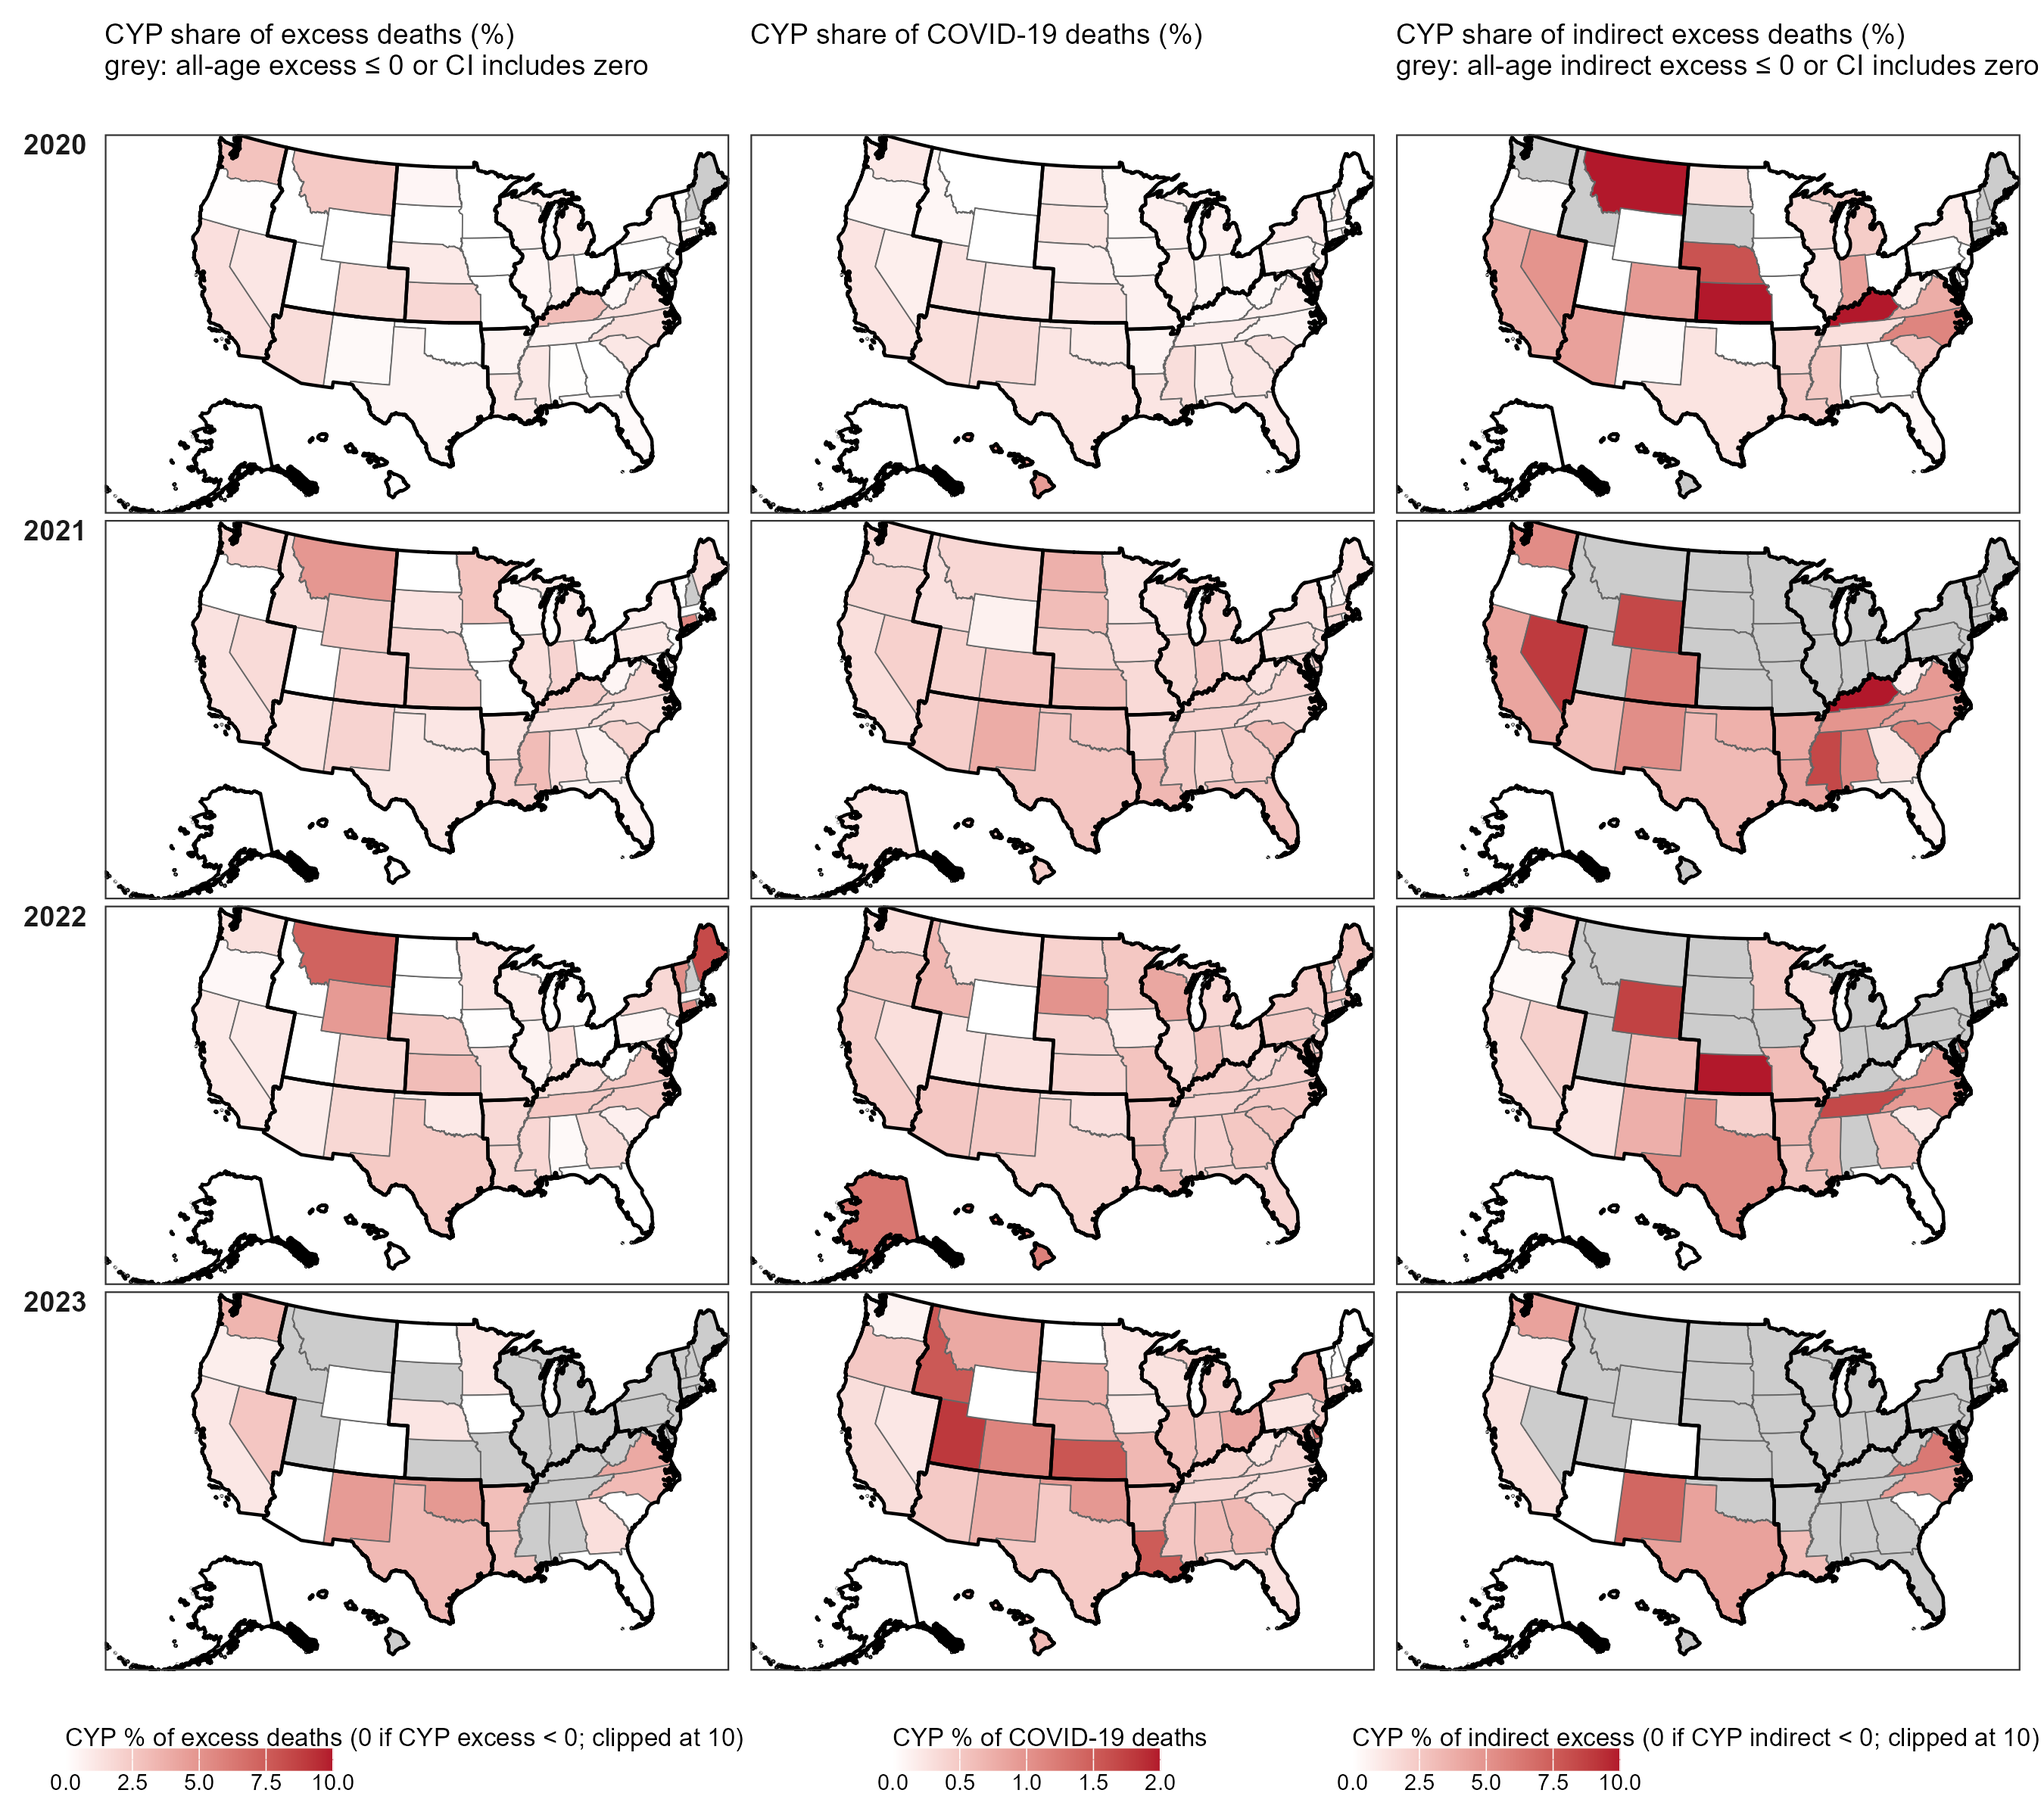
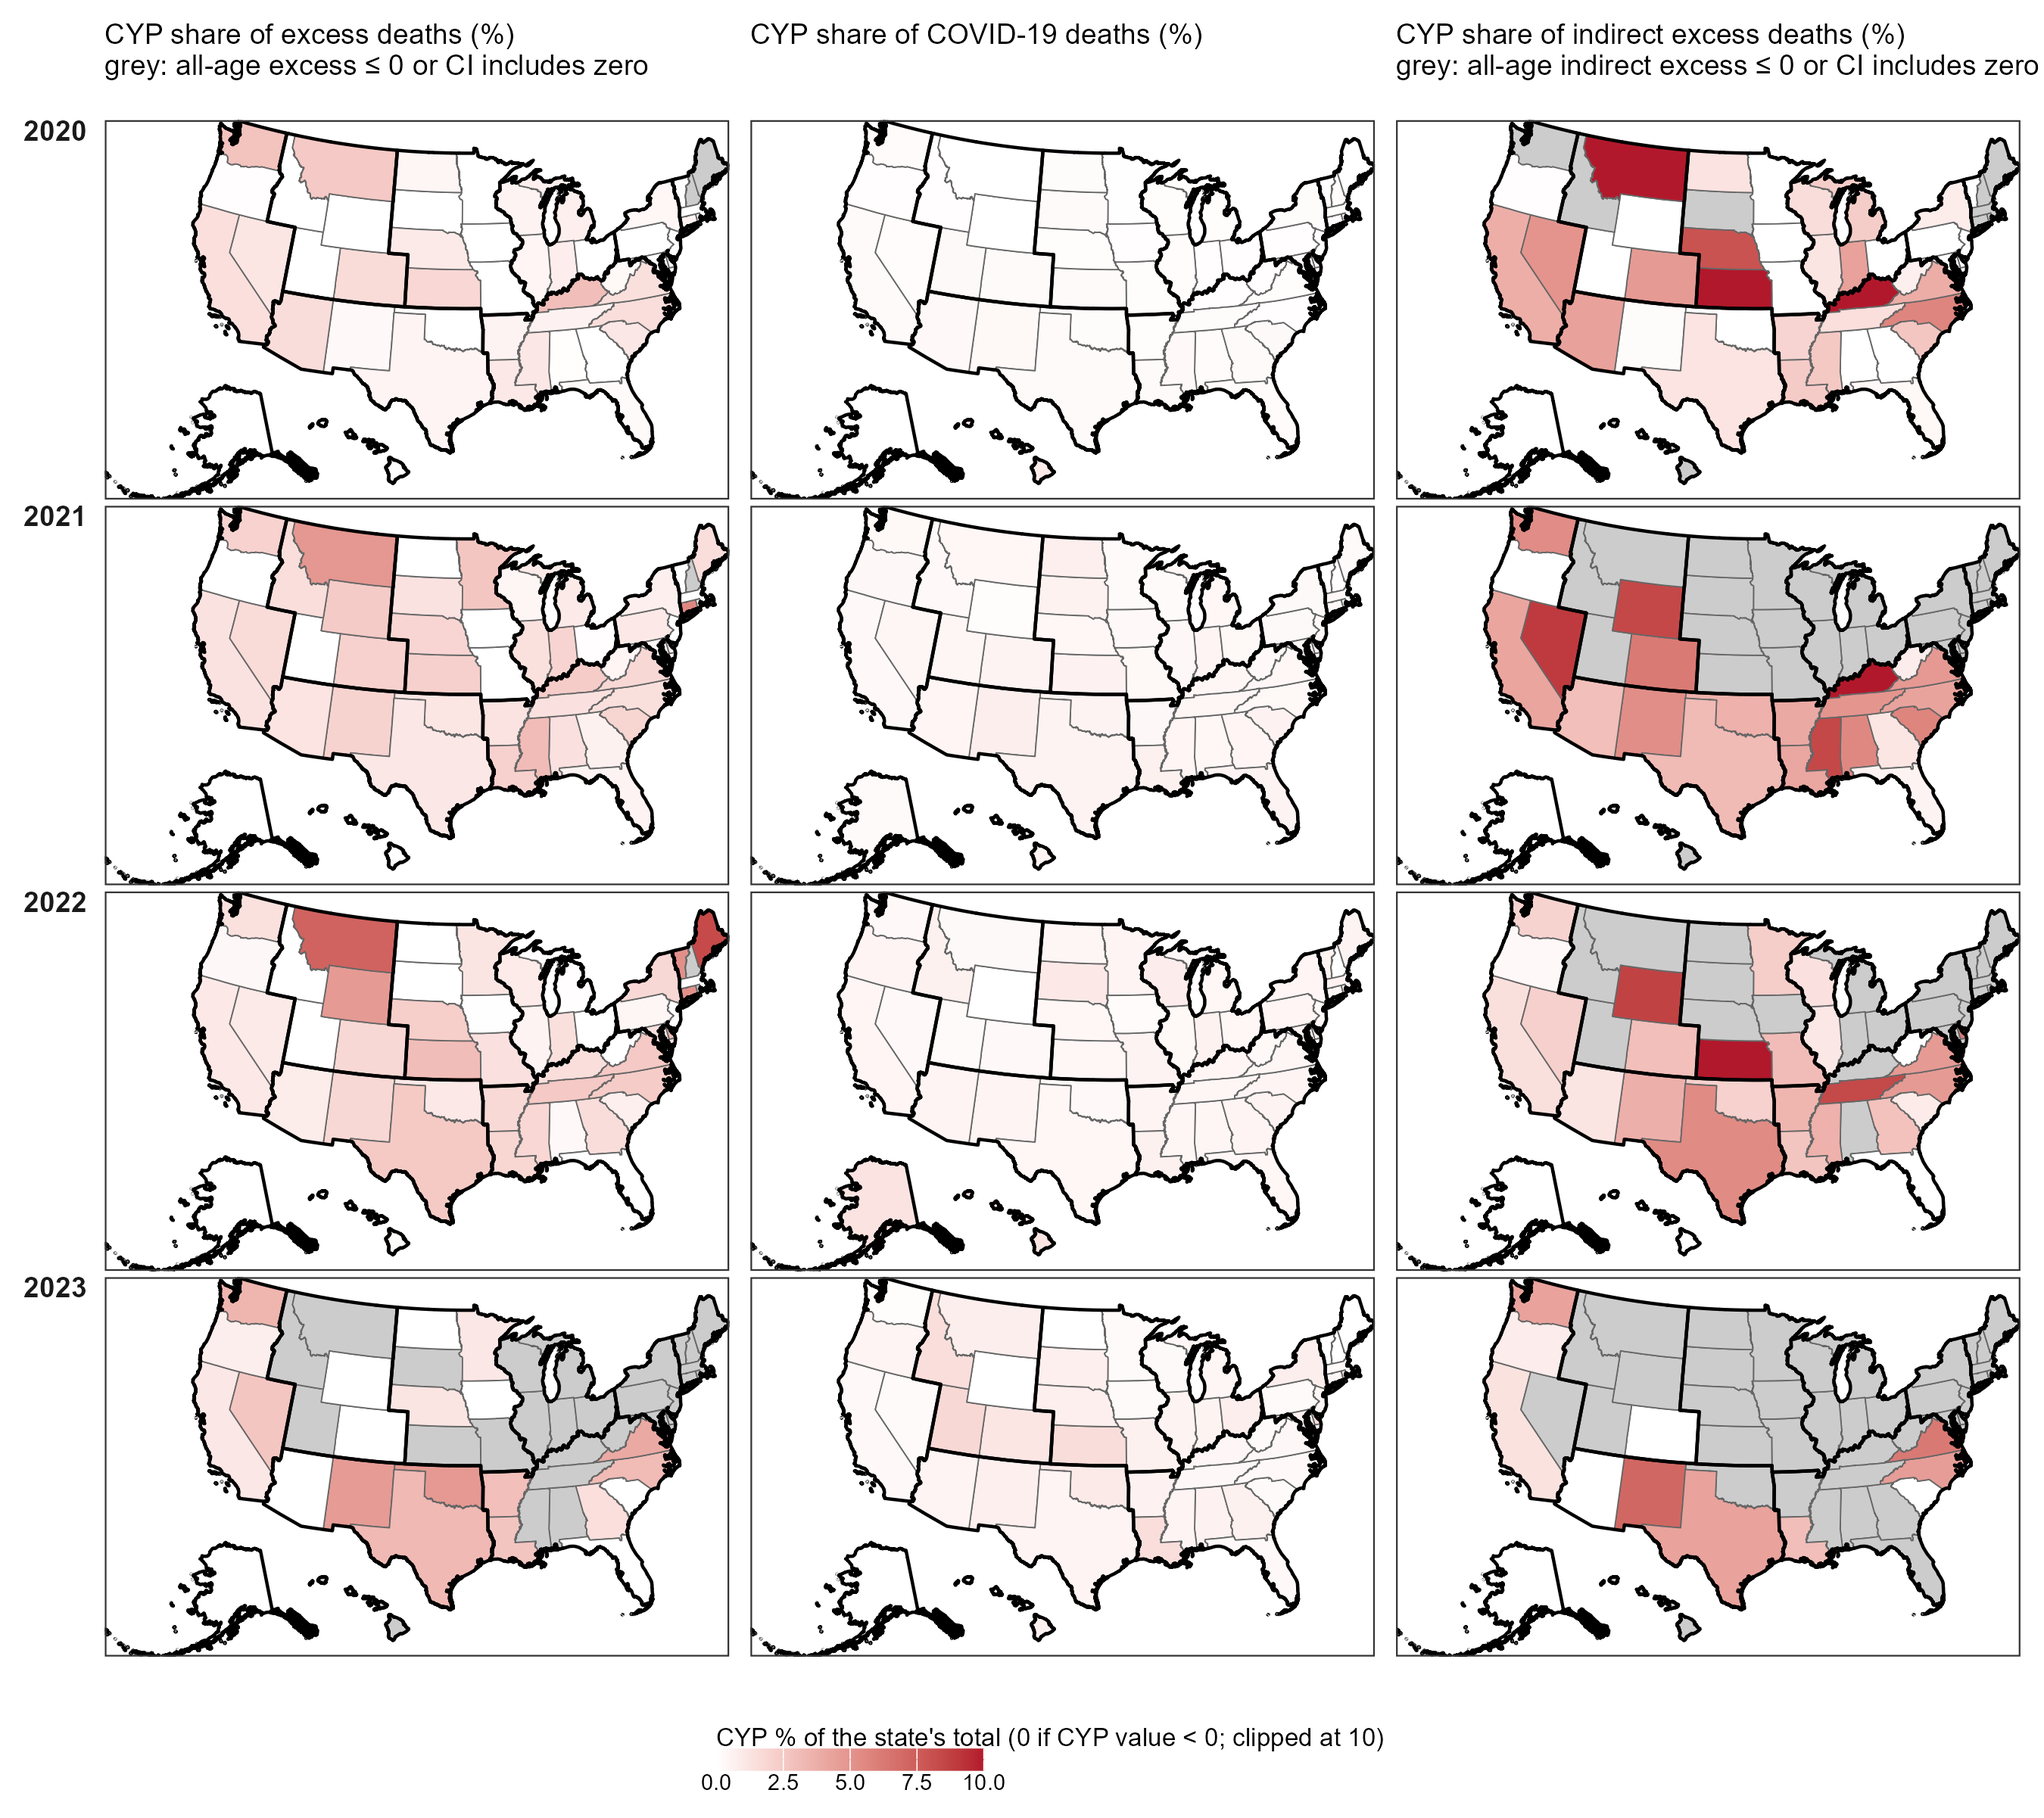
Figure 2 alternative C: one common colour scale for the three share maps; drop variant E

diff --git a/README.md b/README.md
@@ -34,7 +34,7 @@ Developed with R 4.6.1 on Windows; package versions are pinned in `renv.lock`.
 | `code/11_cyp_vs_all_ages_by_state.R` | `data_inter/cyp_vs_all_ages_by_state.rds`, `tables/tableS1_pscores_cyp_share_by_state.csv` | age-standardised p-scores by state for CYP, adults and all ages; CYP share of excess and of COVID-19 deaths; CYP p-score split into direct and indirect (Table S1; mapped by `alt_fig2_maps_by_state.R`) |
 | `code/alt_00_map_helpers.R` | — | map theme and drawing functions shared by the alternative maps |
 | `code/alt_fig1_by_age.R` | `figures/alternatives/fig1_altA_pscore_by_age.png`, `fig1_altB_total_direct_indirect_by_age.png` (+ `.csv`) | alternative versions of Figure 1: A, points (rates, p-scores on a log ratio axis, COVID-19/excess with its interval); B, total, direct (COVID-19 / expected) and indirect ((excess − COVID-19) / expected) p-scores by age plus stacked direct/indirect rates |
-| `code/alt_fig2_maps_by_state.R` | `figures/alternatives/fig2_altA_pscores_by_state.png`, `fig2_altB_cyp_pscore_diff_by_state.png`, `fig2_altC_cyp_share_by_state.png`, `fig2_altD_cyp_pscore_direct_indirect_by_state.png`, `fig2_altE_cyp_share_by_state_common_scale.png` | alternative versions of Figure 2: A, CYP and adult p-scores and their difference (CYP minus adults); B, CYP p-score minus US and minus adults; C, CYP share of excess deaths, of COVID-19 deaths and of indirect excess; D, CYP p-score split into total, direct and indirect; E, as C on one common colour scale |
+| `code/alt_fig2_maps_by_state.R` | `figures/alternatives/fig2_altA_pscores_by_state.png`, `fig2_altB_cyp_pscore_diff_by_state.png`, `fig2_altC_cyp_share_by_state.png`, `fig2_altD_cyp_pscore_direct_indirect_by_state.png` | alternative versions of Figure 2: A, CYP and adult p-scores and their difference (CYP minus adults); B, CYP p-score minus US and minus adults; C, CYP share of excess deaths, of COVID-19 deaths and of indirect excess (one colour scale); D, CYP p-score split into total, direct and indirect |
 | `code/12_explore_race_pscores.R` (exploratory, not in `run_all.R`) | `figures/alternatives/figR1_pscore_excess_by_race.png`, `figR2_pscore_by_race_age.png`, `figR3_direct_indirect_by_race.png` (+ `.csv`) | p-scores and excess rates by race/ethnicity, 0–24; needs `data_input/all_cause_race/` (WONDER API, see its README) |
 
 Every figure is accompanied by a `.csv` with the plotted values. `data_inter/` is fully regenerated by scripts 01–04 but the (small) files are committed so that figures can be redrawn without rerunning the models.
@@ -75,7 +75,7 @@ Known limitations of the input data and of the estimation, in the order they aff
 code/              numbered scripts, run in order by run_all.R
 data_input/        CDC WONDER exports (inputs) + README and query index; all_cause_race/ = API pulls for script 12
 data_inter/        intermediate .rds produced by scripts 01–04 (+ cached state boundaries)
-figures/           fig1 … fig5 and figS1 … figS3 (.png) with their data (.csv), the versions in the paper; alternatives/ holds the alternative versions drawn by the alt_fig* scripts (fig1_altA/B, fig2_altA–E) and the race exploration (figR1–R3). Kept for now: fig1_altB, fig2_altC and fig2_altD
+figures/           fig1 … fig5 and figS1 … figS3 (.png) with their data (.csv), the versions in the paper; alternatives/ holds the alternative versions drawn by the alt_fig* scripts (fig1_altA/B, fig2_altA–D) and the race exploration (figR1–R3). Kept for now: fig1_altB, fig2_altC and fig2_altD
 tables/            Tables A1 and A2 (.docx and .csv), Table S1 (.csv)
 output/            numbers quoted in the text; sensitivity summary
 renv.lock          pinned package versions
